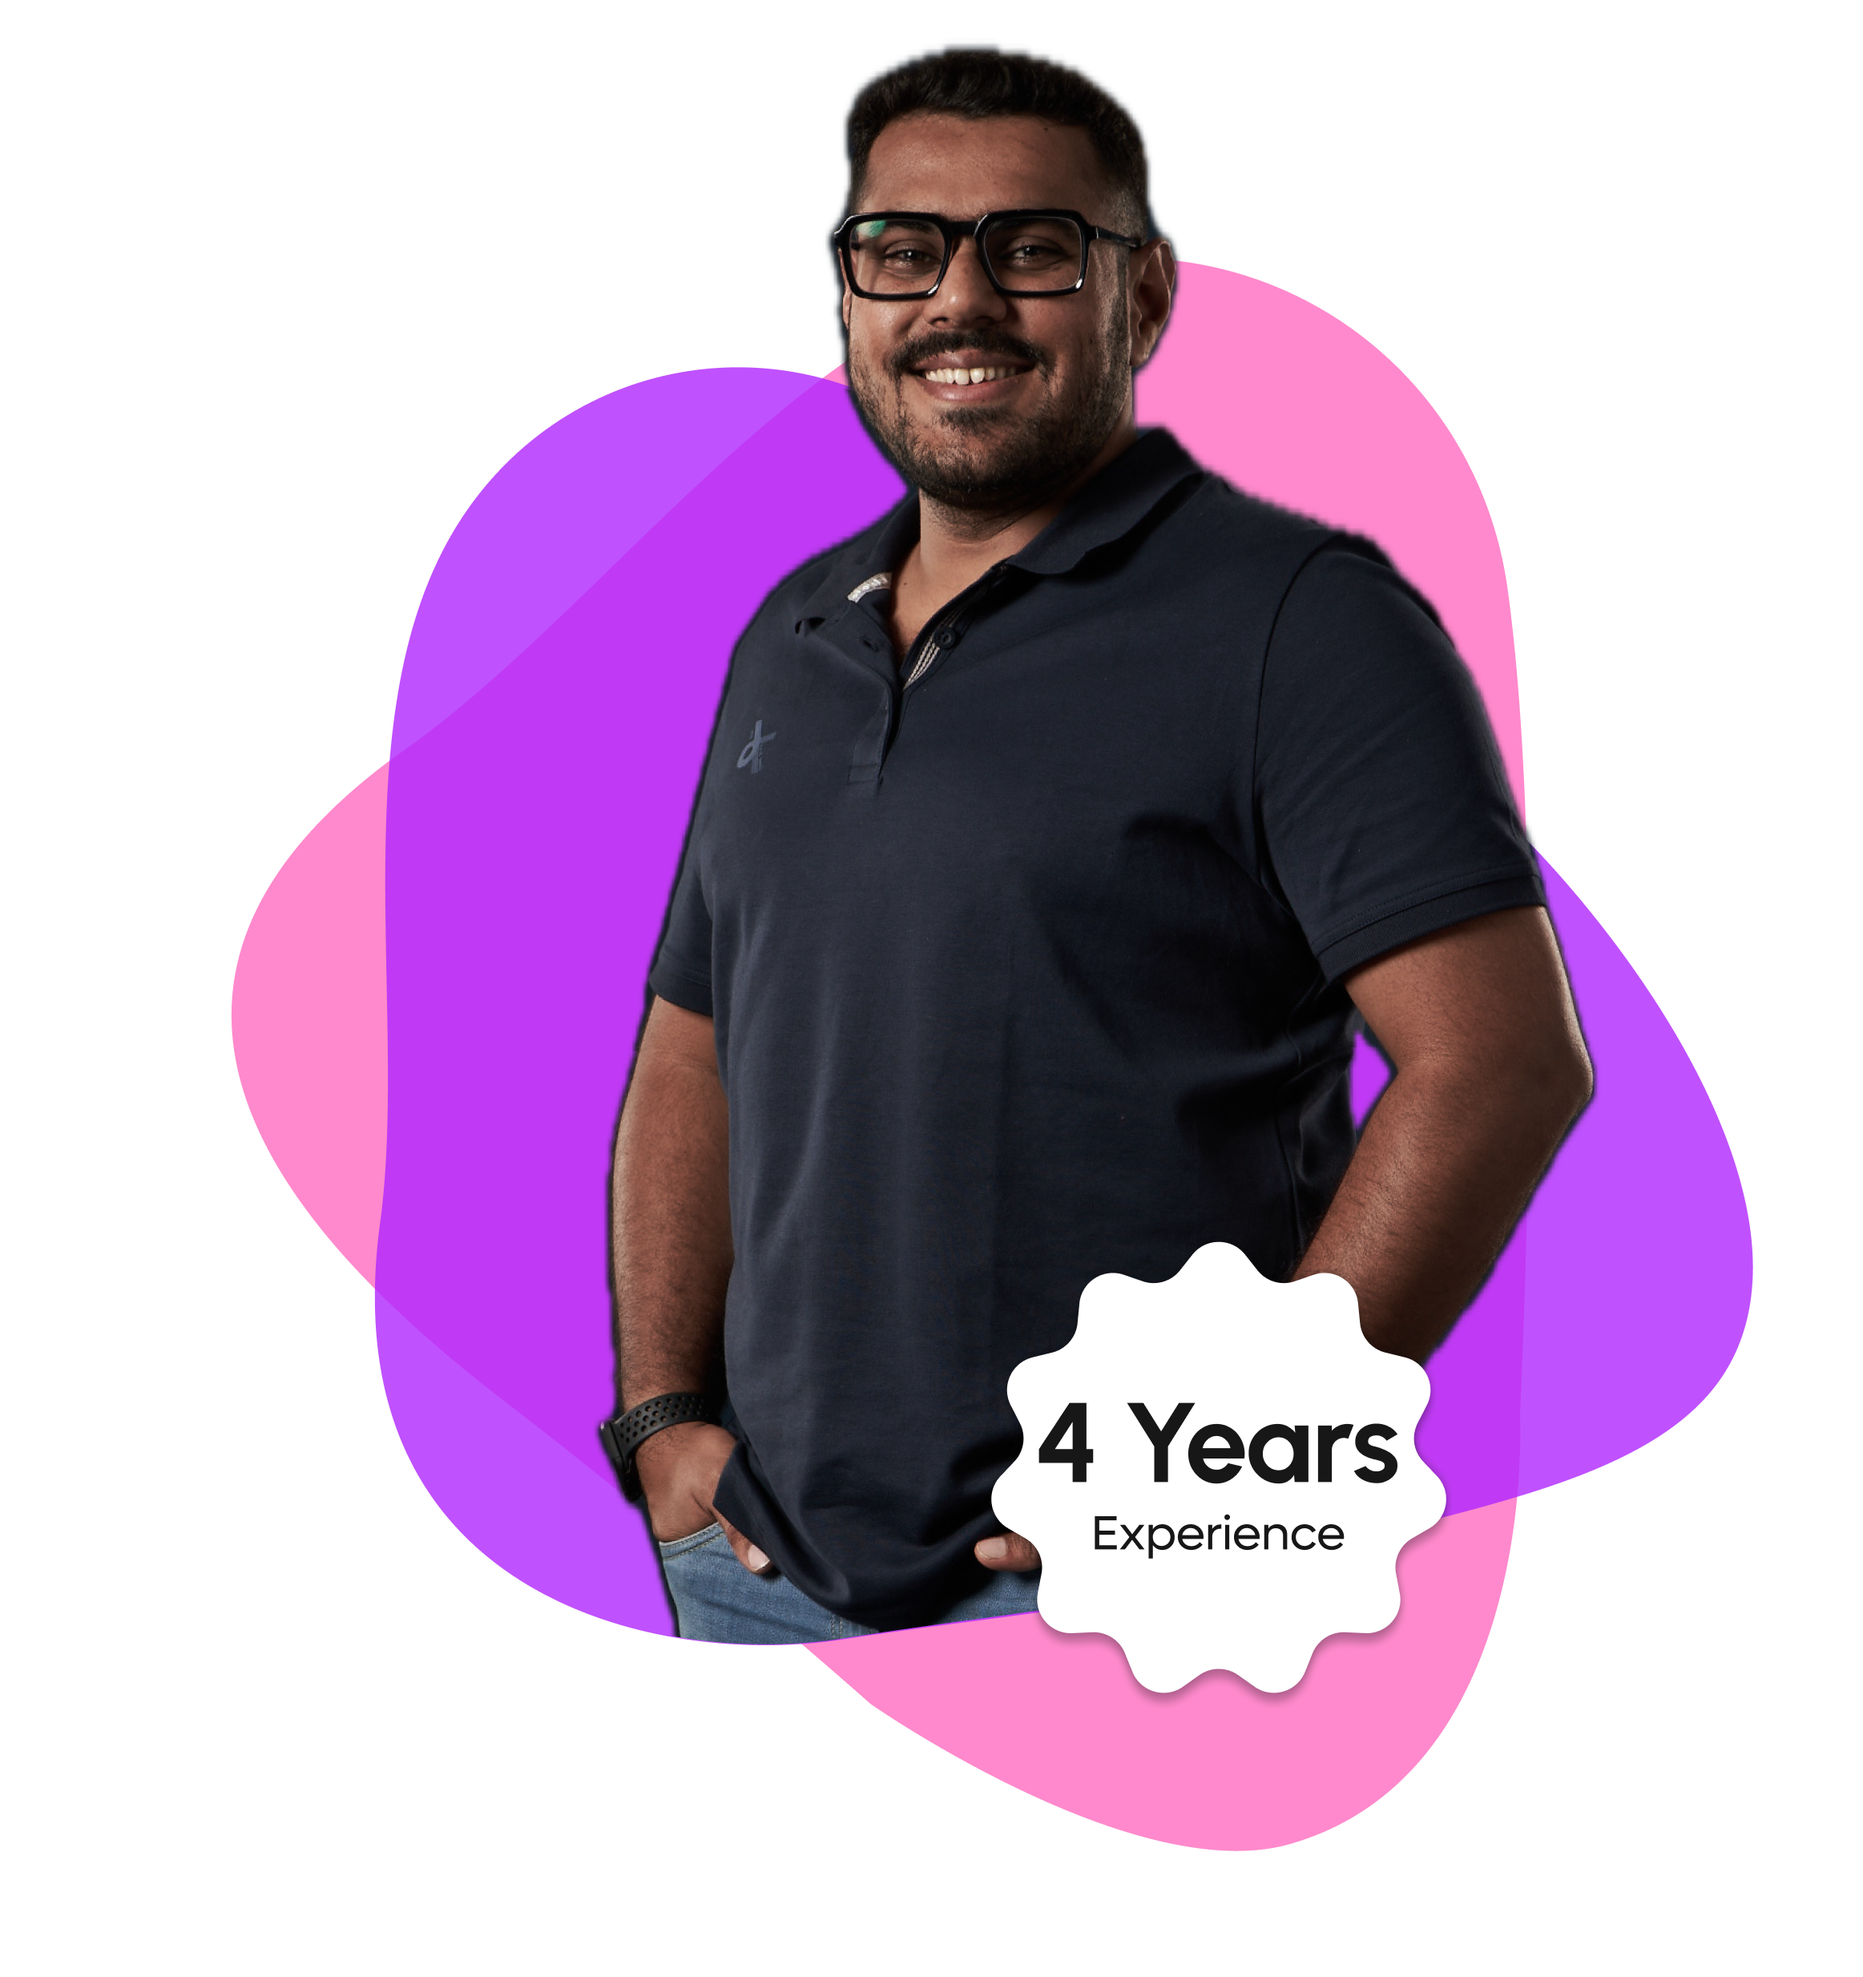
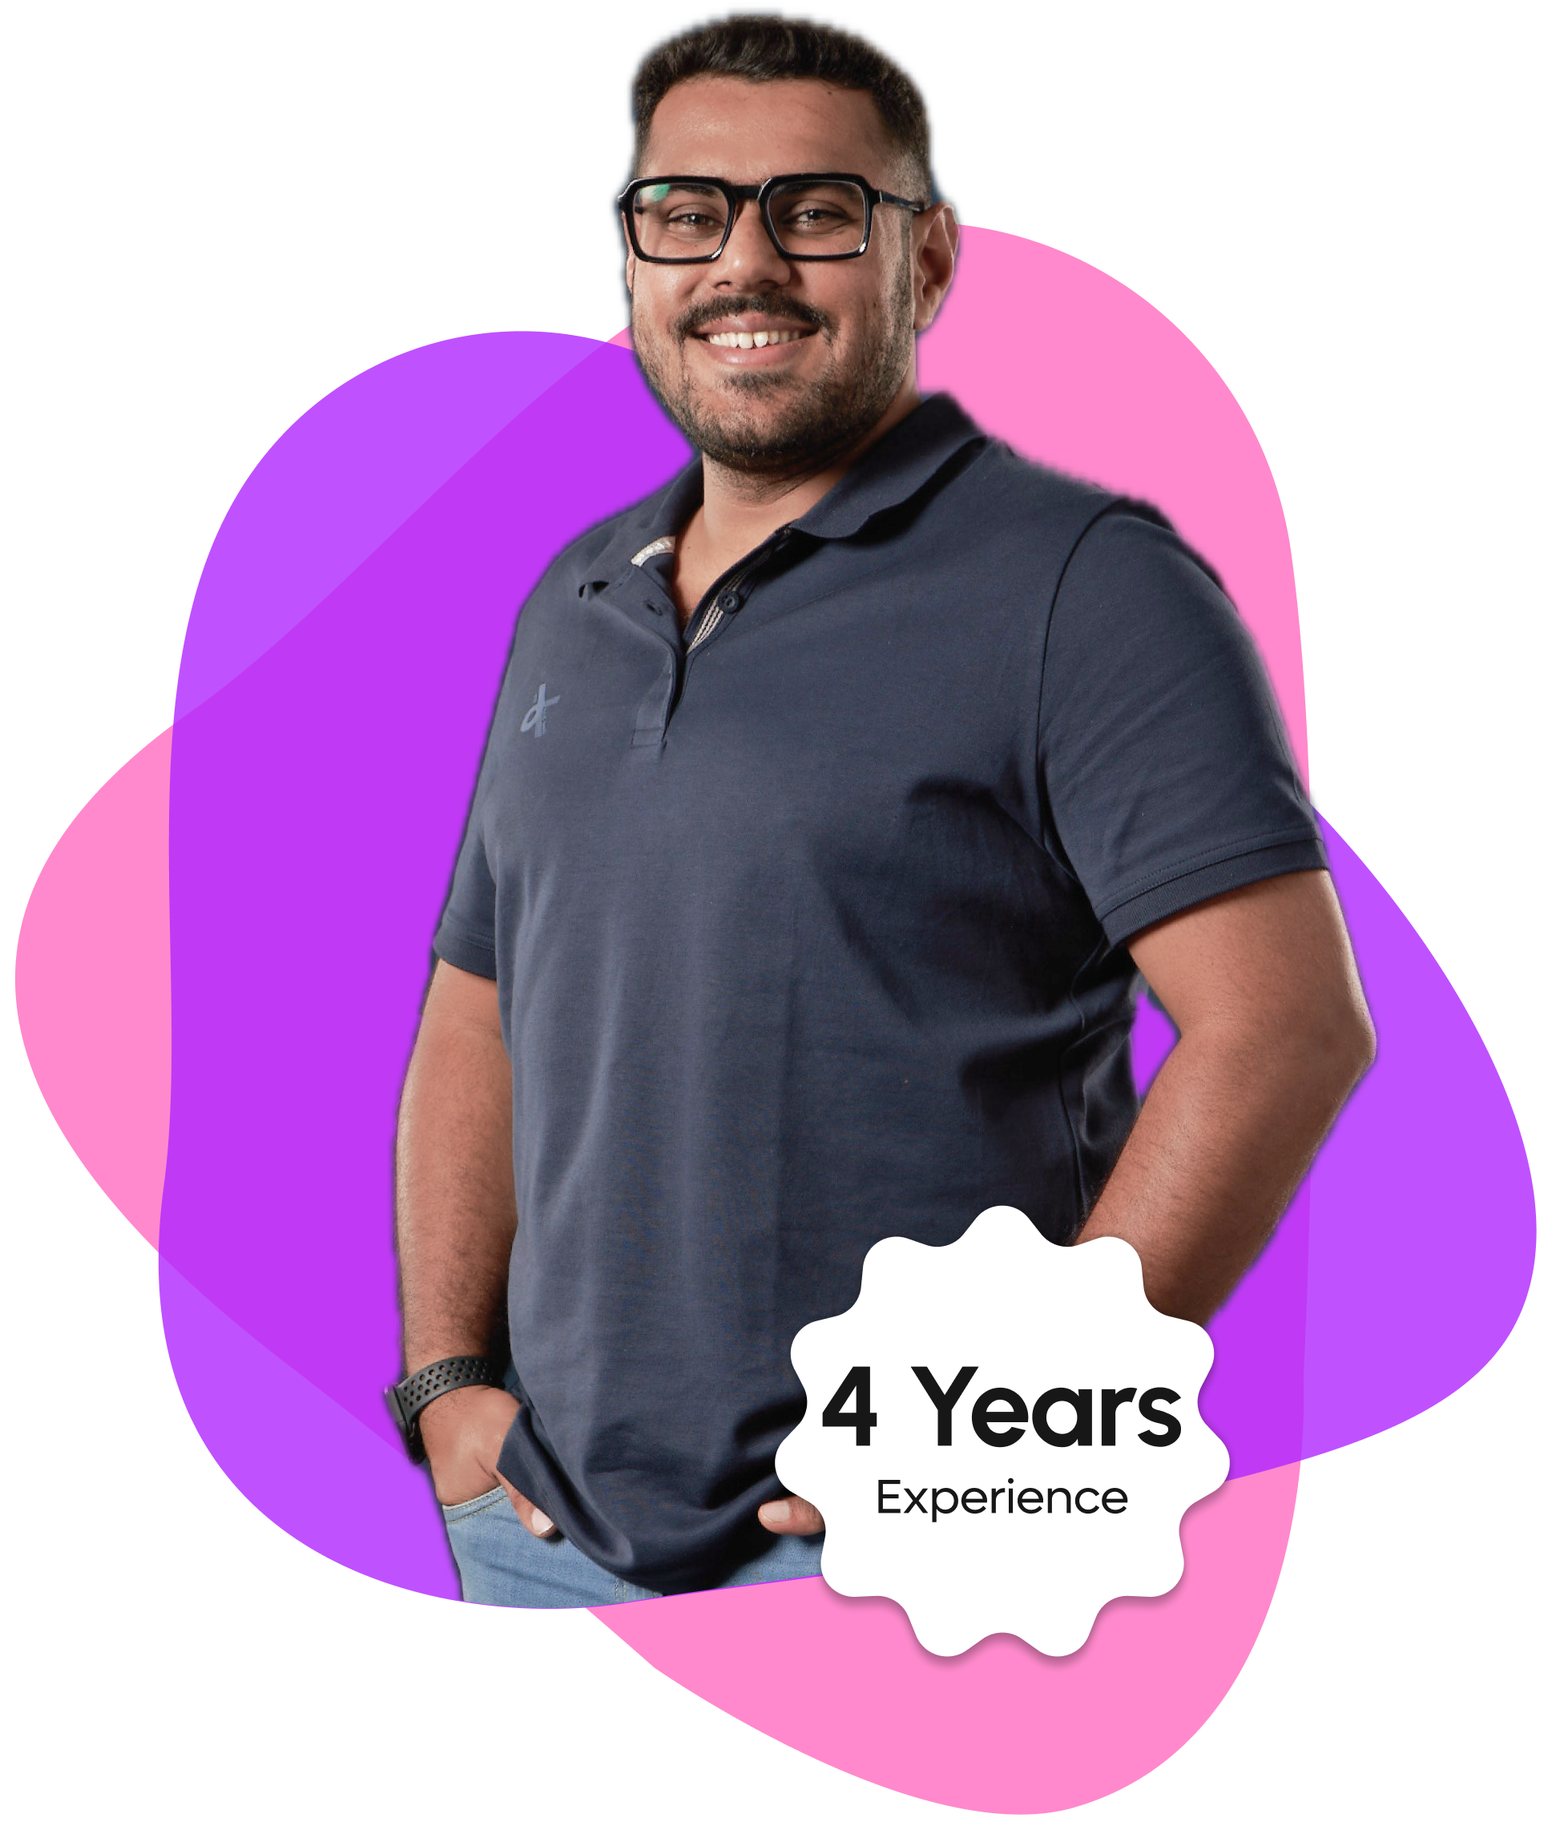
Add About Page and Marquee

diff --git a/components/About.tsx b/components/About.tsx
@@ -1,5 +1,90 @@
+import Chip from './Chip'
+import Image from 'next/image'
+import Marquee from './Marquee'
+
+const domains = [
+  'Fintech',
+  'InsurTech',
+  'Edtech',
+  'SaaS',
+  'Travel & Tourism',
+  'Food & Beverages',
+  'Stealth Startup',
+]
+
+const skills = [
+  'User Journey Mapping',
+  'Persona',
+  'Competitor analysis',
+  'User Research',
+  'Prototyping',
+  'Interaction Design',
+  'Usability Testing',
+  'Wireframes',
+  'Sketching',
+  'Information Architecture',
+]
+
 const About = () => {
-  return <div>About</div>
+  return (
+    <>
+      <section className="bg-gradient-about p-24">
+        <div className="max-w-page m-auto">
+          <h2 className="mb-10 text-center text-4xl">
+            <span className="relative">
+              A few words <strong className="font-bold">About Me</strong>
+              <Image
+                src="/images/highlight-1.svg"
+                width={30}
+                height={30}
+                alt=""
+                className="absolute right-[-35px] top-[-22px]"
+              />
+            </span>
+          </h2>
+          <div className="text-gray-light mb-16 text-xl font-light">
+            <p className="mb-10">
+              I am a chemical engineer, but my passion for{' '}
+              <strong className="font-medium">creative thinking</strong> and{' '}
+              <strong className="font-medium">art</strong> has led me to explore
+              digital design, specifically{' '}
+              <strong className="font-medium">UX UI design</strong>.
+            </p>
+            <p>
+              I craft{' '}
+              <strong className="font-medium">
+                engaging digital experiences
+              </strong>{' '}
+              aligned with user needs, ensuring designs meet both technical
+              requirements and business objectives through understanding{' '}
+              <strong className="font-medium">user preferences,</strong>{' '}
+              <strong className="font-medium">developing personas</strong> and
+              <strong className="font-medium">journeys,</strong> and fostering
+              collaboration.
+            </p>
+          </div>
+          <div className="flex items-start">
+            <div className="flex-1">
+              <div className="text-gray-thin mb-4 font-light">Projects</div>
+              <div className="mb-1 text-5xl font-semibold">15+</div>
+              <div className="text-xl font-medium">
+                Mobile Apps and Web Products
+              </div>
+            </div>
+            <div className="mb-2 flex-1">
+              <div className="text-gray-thin mb-4 font-light">Domains</div>
+              <div className="flex flex-wrap">
+                {domains.map(domain => (
+                  <Chip key={domain} content={domain} />
+                ))}
+              </div>
+            </div>
+          </div>
+        </div>
+      </section>
+      <Marquee items={skills} />
+    </>
+  )
 }
 
 export default About

diff --git a/tailwind.config.ts b/tailwind.config.ts
@@ -1,20 +1,48 @@
-import type { Config } from "tailwindcss";
+import type { Config } from 'tailwindcss'
 
 const config: Config = {
   content: [
-    "./pages/**/*.{js,ts,jsx,tsx,mdx}",
-    "./components/**/*.{js,ts,jsx,tsx,mdx}",
-    "./app/**/*.{js,ts,jsx,tsx,mdx}",
+    './pages/**/*.{js,ts,jsx,tsx,mdx}',
+    './components/**/*.{js,ts,jsx,tsx,mdx}',
+    './app/**/*.{js,ts,jsx,tsx,mdx}',
   ],
   theme: {
+    colors: {
+      white: '#fff',
+      purple: {
+        light: '#EBC6FF',
+        DEFAULT: '#B026FF',
+      },
+      gray: {
+        thin: '#989DA9',
+        light: '#344054',
+      },
+    },
     extend: {
+      width: {
+        page: '1104px',
+      },
+      maxWidth: {
+        page: '1104px',
+      },
       backgroundImage: {
-        "gradient-radial": "radial-gradient(var(--tw-gradient-stops))",
-        "gradient-conic":
-          "conic-gradient(from 180deg at 50% 50%, var(--tw-gradient-stops))",
+        'gradient-about':
+          'linear-gradient(0deg, rgba(255,255,255,1) 0%, rgba(250,241,255,1) 100%)',
+        'gradient-radial': 'radial-gradient(var(--tw-gradient-stops))',
+        'gradient-conic':
+          'conic-gradient(from 180deg at 50% 50%, var(--tw-gradient-stops))',
+      },
+      animation: {
+        marquee: 'marquee 10s linear infinite',
+      },
+      keyframes: {
+        marquee: {
+          '0%': { transform: 'translateX(0%)' },
+          '100%': { transform: 'translateX(-100%)' },
+        },
       },
     },
   },
   plugins: [],
-};
-export default config;
+}
+export default config

diff --git a/components/Home.tsx b/components/Home.tsx
@@ -2,13 +2,13 @@ import Image from 'next/image'
 
 const Home = () => {
   return (
-    <section className="relative right-[-100px] m-auto flex h-screen max-w-[1450px] items-center">
+    <section className="max-w-page relative m-auto flex h-screen items-center">
       <div>
         <div className="mb-16">
           <p className="mb-4 text-3xl font-light">Hey peeps! 👋🏼</p>
           <h1 className="">
-            <p className="mb-2 text-7xl font-bold">I&apos;m Aashay Dedhia,</p>
-            <p className="text-7xl">
+            <p className="mb-2 text-6xl font-bold">I&apos;m Aashay Dedhia,</p>
+            <p className="text-6xl">
               a <strong className="font-bold">Product</strong> designer
             </p>
           </h1>
@@ -17,7 +17,7 @@ const Home = () => {
           <p className="mb-4">
             <Image src="/images/quote.svg" alt="Quote" width={40} height={40} />
           </p>
-          <p className="max-w-[600px] text-2xl font-light">
+          <p className="text-gray-light max-w-[600px] text-2xl font-light">
             Crafting exceptional digital experiences to simplify intricate
             challenges into effortless resolutions.
           </p>
@@ -27,8 +27,9 @@ const Home = () => {
         <Image
           src="/images/profile.png"
           alt="4 Years Experience"
-          width={775}
+          width={580}
           height={822}
+          className="relative right-[-80px]"
         />
       </div>
     </section>

diff --git a/components/Marquee.tsx b/components/Marquee.tsx
@@ -1,0 +1,24 @@
+import Image from 'next/image'
+
+const Marquee = ({ items }) => {
+  return (
+    <div class="bg-purple -rotate-2 overflow-x-hidden text-white">
+      <div class="animate-marquee whitespace-nowrap py-2">
+        {items.map(item => (
+          <span key={item} className="inline-flex items-center text-2xl">
+            {item}
+            <Image
+              src="/images/stripdivider.svg"
+              width={30}
+              height={30}
+              alt=""
+              className="mx-6"
+            />
+          </span>
+        ))}
+      </div>
+    </div>
+  )
+}
+
+export default Marquee

diff --git a/app/page.tsx b/app/page.tsx
@@ -1,5 +1,5 @@
 import Home from '@/components/Home'
-// import About from '@/components/About'
+import About from '@/components/About'
 // import Work from '@/components/Work'
 // import Wardrobe from '@/components/Wardrobe'
 // import Connect from '@/components/Connect'
@@ -8,8 +8,8 @@ export default function HomePage() {
   return (
     <main>
       <Home />
-      {/* <About />
-      <Work />
+      <About />
+      {/* <Work />
       <Wardrobe />
       <Connect /> */}
     </main>

diff --git a/components/Chip.tsx b/components/Chip.tsx
@@ -1,0 +1,9 @@
+const Chip = ({ content }) => {
+  return (
+    <span className="bg-purple-light mb-4 mr-2 inline rounded-full px-4 py-2 text-lg font-medium">
+      {content}
+    </span>
+  )
+}
+
+export default Chip
